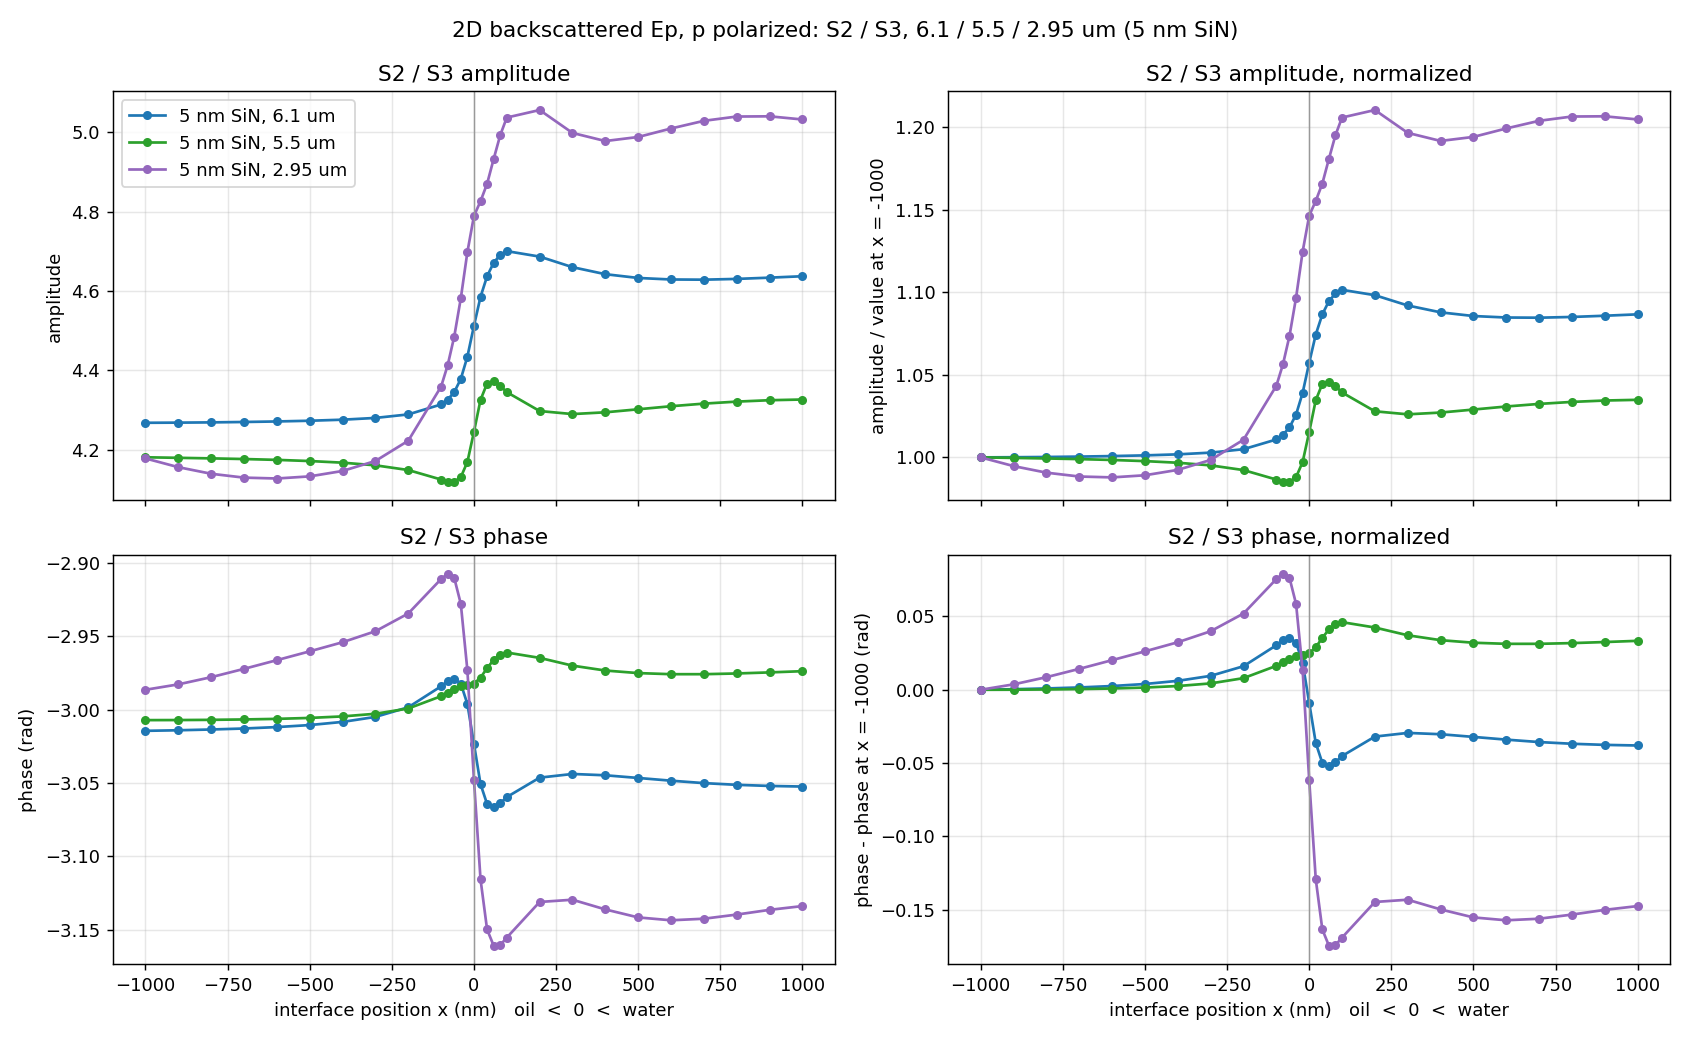
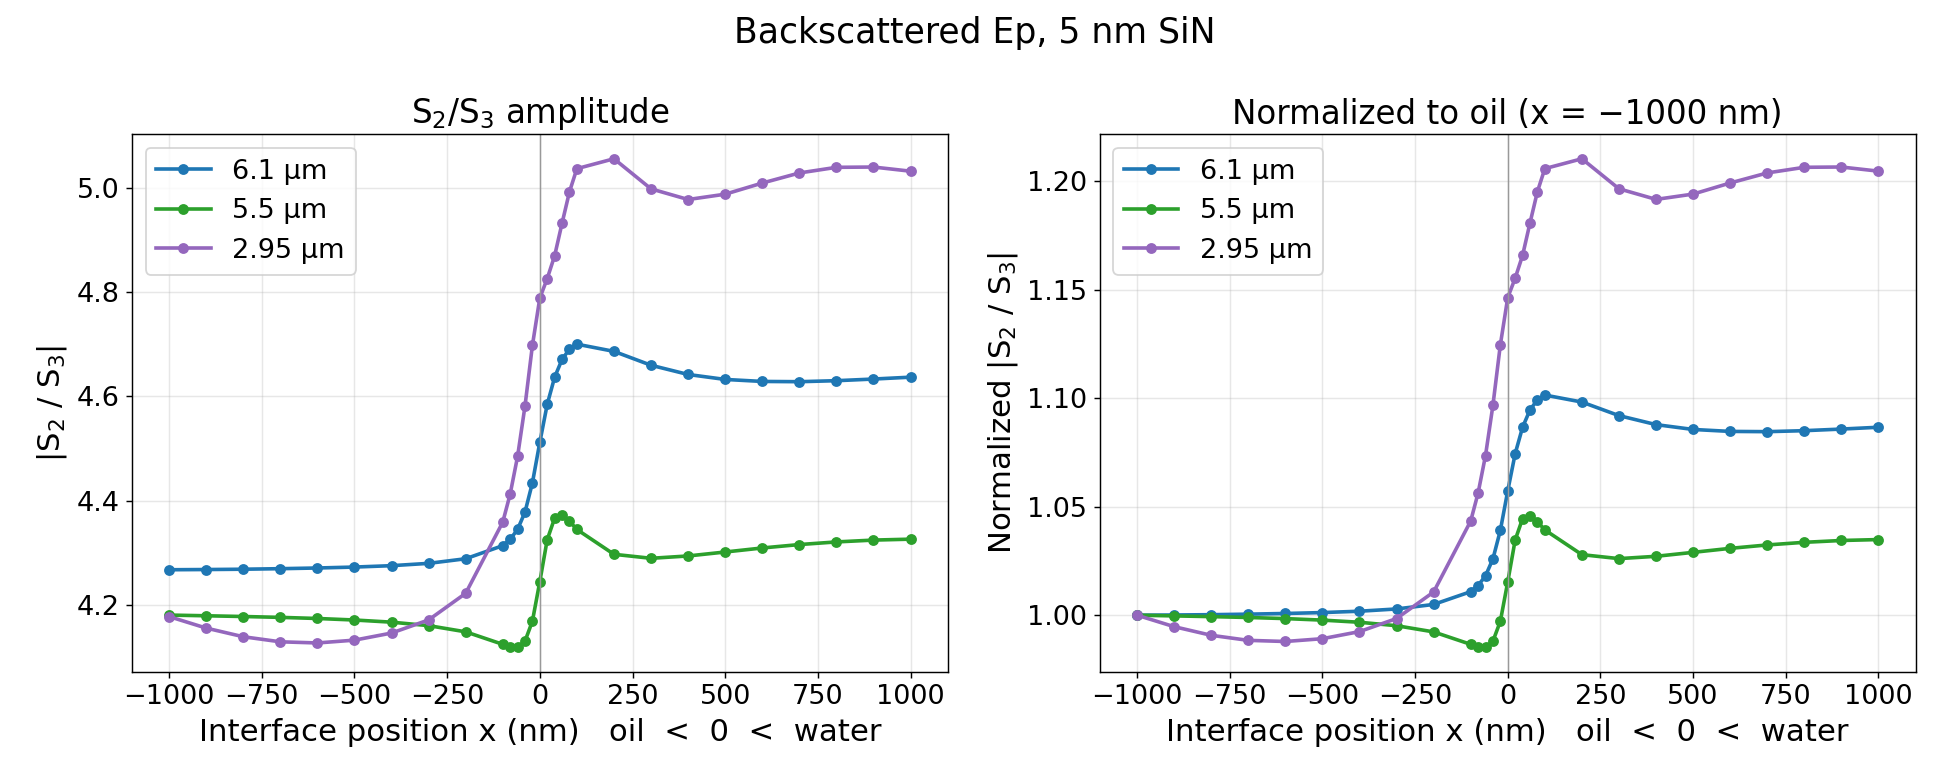
2D: S2/S3 wavelength comparison as amplitude + normalized amplitude only

diff --git a/Interface_LineScan_2D/plot_2d.py b/Interface_LineScan_2D/plot_2d.py
@@ -133,7 +133,7 @@ def plot_complex(stage, gap=5):
     print('wrote', out)
 
 
-if __name__ == '__main__' and (len(sys.argv) < 2 or sys.argv[1] not in ('ep_sub', 'ep_step', 'ep_lines', 'approach', 'demod', 's2s3', 'nearfield', 'compare', 's2s3_prov', 's2s3_both', 's2s3_wl', 's2s3_wl3', 'explain', 'tapview', 'tapview_inphase')):
+if __name__ == '__main__' and (len(sys.argv) < 2 or sys.argv[1] not in ('ep_sub', 'ep_step', 'ep_lines', 'approach', 'demod', 's2s3', 'nearfield', 'compare', 's2s3_prov', 's2s3_both', 's2s3_wl', 's2s3_wl3', 'explain', 'tapview', 'tapview_inphase', 's2s3_wl_amp')):
     what = sys.argv[1] if len(sys.argv) > 1 else 'scan_h5'
     plot_scan(what)
     plot_combined(what)
@@ -870,3 +870,35 @@ def plot_approach_and_tapping_inphase(xs=((-1000.0, 'oil', '#d95f02'), (-40.0, '
 
 if __name__ == '__main__' and len(sys.argv) > 1 and sys.argv[1] == 'tapview_inphase':
     plot_approach_and_tapping_inphase(set_name=SET, norm='--norm' in sys.argv)
+
+
+def plot_s2s3_amplitude(sets=(('sin5', 'C0', '6.1 µm'), ('wl5p5', 'C2', '5.5 µm'), ('wl2p95', 'C4', '2.95 µm')),
+                        fname='S2_over_S3_wavelengths.png', title='Backscattered Ep, 5 nm SiN'):
+    """|S2/S3| vs x (left) and normalized to the oil end x = -1000 nm (right), one curve per data set."""
+    with plt.rc_context({'font.size': 16, 'axes.titlesize': 18, 'axes.labelsize': 17,
+                         'xtick.labelsize': 15, 'ytick.labelsize': 15, 'legend.fontsize': 15}):
+        fig, ax = plt.subplots(1, 2, figsize=(15, 6))
+        for set_name, c, lab in sets:
+            rows = demod_rows(set_name)
+            if not rows:
+                continue
+            x = np.array([r[0] for r in rows])
+            amp = np.array([abs(r[1][2]/r[1][3]) for r in rows])
+            ax[0].plot(x, amp, 'o-', ms=5, lw=2, color=c, label=lab)
+            ax[1].plot(x, amp/amp[0], 'o-', ms=5, lw=2, color=c, label=lab)
+        ax[0].set(ylabel='|S$_2$ / S$_3$|', title='S$_2$/S$_3$ amplitude')
+        ax[1].set(ylabel='Normalized |S$_2$ / S$_3$|', title='Normalized to oil (x = −1000 nm)')
+        for a in ax:
+            a.set_xlabel('Interface position x (nm)   oil  <  0  <  water')
+            a.axvline(0, color='0.6', lw=0.8)
+            a.grid(alpha=0.3)
+            a.legend()
+        fig.suptitle(title)
+        fig.tight_layout()
+        out = os.path.join(FIGS, fname)
+        fig.savefig(out, dpi=130)
+    print('wrote', out)
+
+
+if __name__ == '__main__' and len(sys.argv) > 1 and sys.argv[1] == 's2s3_wl_amp':
+    plot_s2s3_amplitude()
